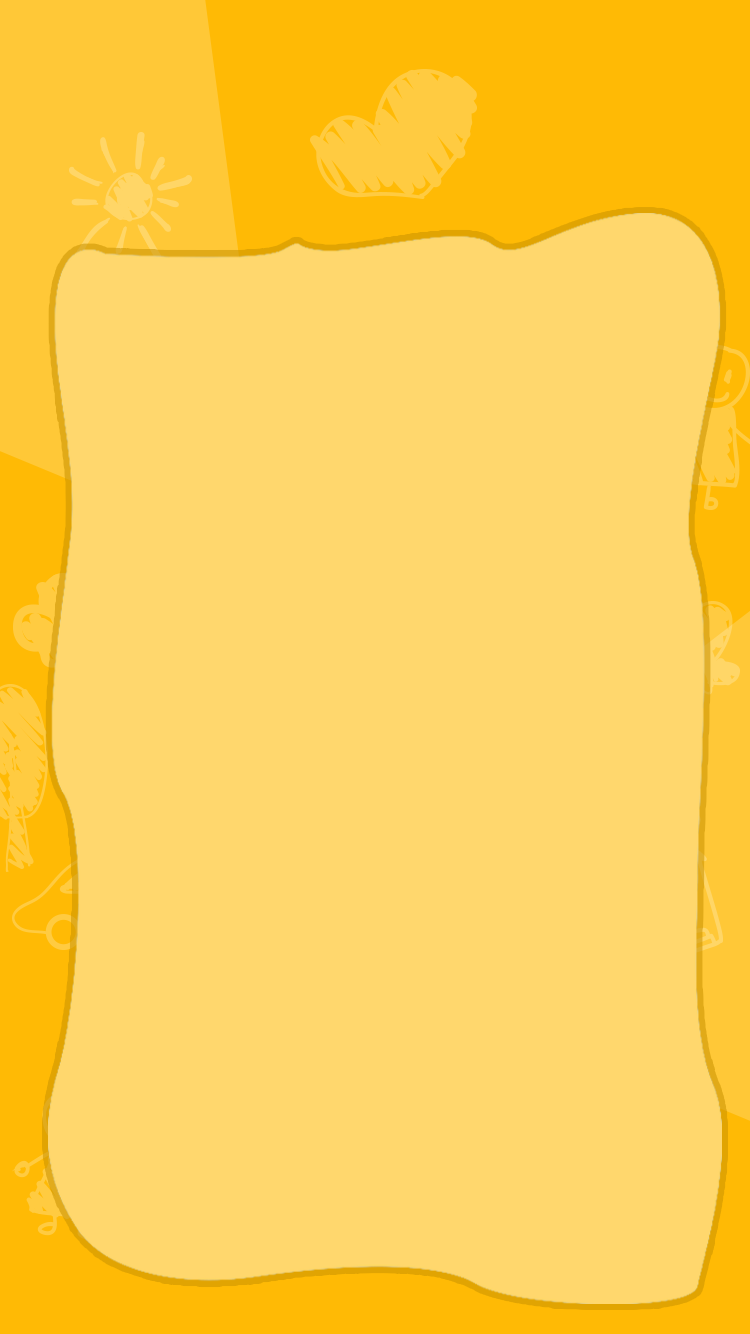
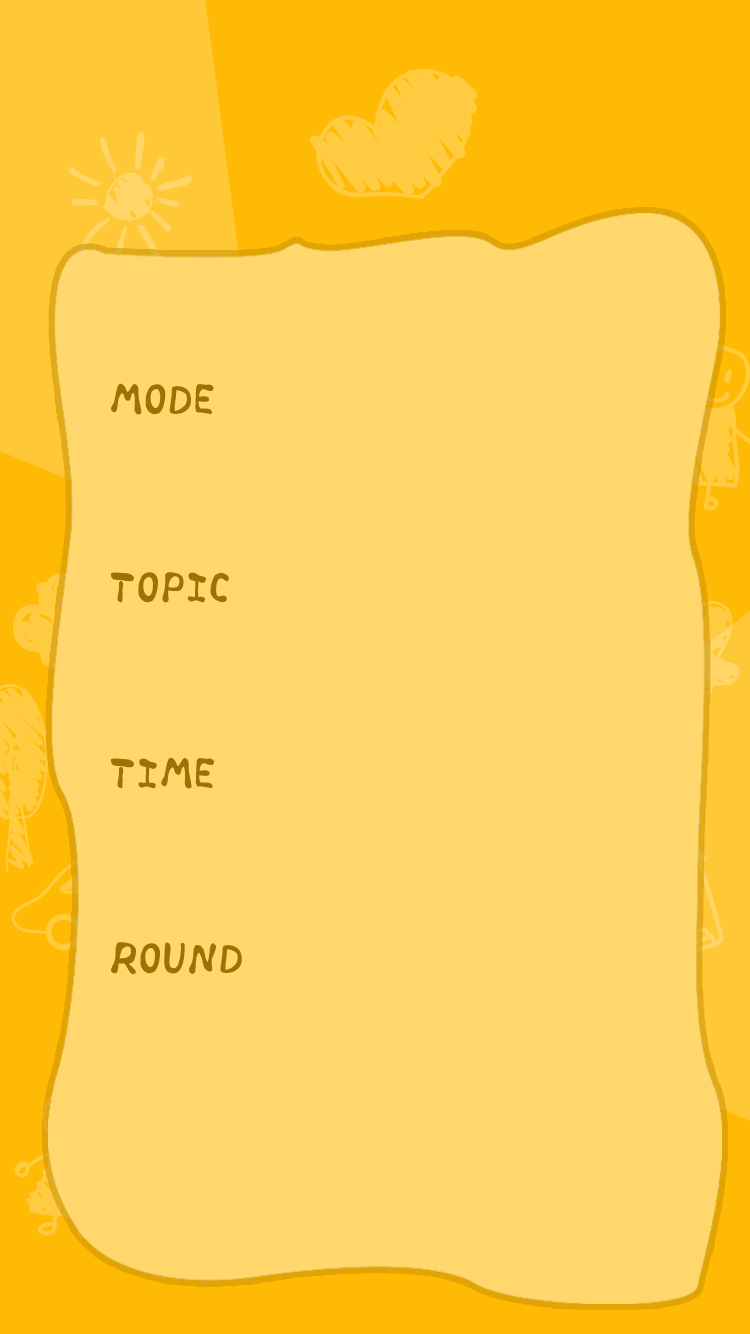
Added game rule and mode intro panel

diff --git a/BaileyDemo/core/src/com/mygdx/game/modeIntroScreen.java b/BaileyDemo/core/src/com/mygdx/game/modeIntroScreen.java
@@ -32,17 +32,12 @@ import com.badlogic.gdx.graphics.g2d.TextureRegion;
 import com.badlogic.gdx.scenes.scene2d.ui.Image;
 import com.badlogic.gdx.Preferences;
 
-public class SettingMenu extends ScreenAdapter{
-
+public class modeIntroScreen extends ScreenAdapter{
     private MultipleScenes game;
     private Stage stage;
-    private Skin skin;
-
-
     private Texture tex;
     private Image image;
     private TextureRegion region;
-
     private TextureRegionDrawable up;
     private TextureRegionDrawable down;
     private TextureRegion buttonUp;
@@ -50,39 +45,14 @@ public class SettingMenu extends ScreenAdapter{
     private Texture tex2;
     private ImageButton button;
 
-    private Slider slider;
-
-    public SettingMenu(MultipleScenes game) {
+    public modeIntroScreen(MultipleScenes game) {
         this.game = game;
     }
 
     @Override
     public void show(){
-
         stage = new Stage(new ScreenViewport());
-        skin = new Skin(Gdx.files.internal("plain-james/skin/plain-james-ui.json"));
-
-
-        slider = new Slider(0, 100, 1, false, skin);
-        slider.setValue(1);
-        Container<Slider> sliderContainer = new Container<Slider>(slider);
-        sliderContainer.setTransform(true);
-
-        sliderContainer.setOrigin(slider.getWidth()/2,slider.getHeight()/2);
-        sliderContainer.setSize(slider.getWidth(),slider.getHeight());
-        sliderContainer.setScale(2);
-
-//        slider.setSize(30, 100);
-//        slider.setPosition(100, 100);
-//        slider.addListener(new ChangeListener() {
-//            @Override
-//            public void changed(ChangeEvent event, Actor actor) {
-//
-//            }
-//        });
-        stage.addActor(slider);
-
-        tex = new Texture(Gdx.files.internal("image/setting.png"));
+        tex = new Texture(Gdx.files.internal("image/modeIntro.png"));
         region = new TextureRegion(tex,0,0,750,1334);
         image = new Image(region);
         image.setPosition(0,0);
@@ -102,32 +72,11 @@ public class SettingMenu extends ScreenAdapter{
         button.addListener(new ClickListener() {
             @Override
             public void clicked(InputEvent event, float x, float y) {
-                //back to last activity
                 SoundManager.button.play();
-                //set back to HomePage for test
-                game.setScreen(new HomeScreen(game));
+                game.setScreen(new CreateLobby(game));
                 SoundManager.background.dispose();
             }
         });
-
-        tex2 = new Texture(Gdx.files.internal("button/infoButton.png"));
-        TextureRegion[][] temp_3 = TextureRegion.split(tex2,50,50);
-        buttonUp = temp_3[0][0];
-        buttonDown = temp_3[0][1];
-        up = new TextureRegionDrawable(buttonUp);
-        down = new TextureRegionDrawable(buttonDown);
-        button = new ImageButton(up,down);
-        button.setPosition(Gdx.graphics.getWidth() / 2 + 100,Gdx.graphics.getHeight()/2 + 195);
-        button.setSize(30,30);
-        stage.addActor(button);
-        button.addListener(new ClickListener() {
-            @Override
-            public void clicked(InputEvent event, float x, float y) {
-                SoundManager.button.play();
-                game.setScreen(new gameRuleScreen(game));
-            }
-        });
-
         Gdx.input.setInputProcessor(stage);
     }
 

diff --git a/BaileyDemo/core/src/com/mygdx/game/gameRuleScreen.java b/BaileyDemo/core/src/com/mygdx/game/gameRuleScreen.java
@@ -32,17 +32,12 @@ import com.badlogic.gdx.graphics.g2d.TextureRegion;
 import com.badlogic.gdx.scenes.scene2d.ui.Image;
 import com.badlogic.gdx.Preferences;
 
-public class SettingMenu extends ScreenAdapter{
-
+public class gameRuleScreen extends ScreenAdapter{
     private MultipleScenes game;
     private Stage stage;
-    private Skin skin;
-
-
     private Texture tex;
     private Image image;
     private TextureRegion region;
-
     private TextureRegionDrawable up;
     private TextureRegionDrawable down;
     private TextureRegion buttonUp;
@@ -50,39 +45,14 @@ public class SettingMenu extends ScreenAdapter{
     private Texture tex2;
     private ImageButton button;
 
-    private Slider slider;
-
-    public SettingMenu(MultipleScenes game) {
+    public gameRuleScreen(MultipleScenes game) {
         this.game = game;
     }
 
     @Override
     public void show(){
-
         stage = new Stage(new ScreenViewport());
-        skin = new Skin(Gdx.files.internal("plain-james/skin/plain-james-ui.json"));
-
-
-        slider = new Slider(0, 100, 1, false, skin);
-        slider.setValue(1);
-        Container<Slider> sliderContainer = new Container<Slider>(slider);
-        sliderContainer.setTransform(true);
-
-        sliderContainer.setOrigin(slider.getWidth()/2,slider.getHeight()/2);
-        sliderContainer.setSize(slider.getWidth(),slider.getHeight());
-        sliderContainer.setScale(2);
-
-//        slider.setSize(30, 100);
-//        slider.setPosition(100, 100);
-//        slider.addListener(new ChangeListener() {
-//            @Override
-//            public void changed(ChangeEvent event, Actor actor) {
-//
-//            }
-//        });
-        stage.addActor(slider);
-
-        tex = new Texture(Gdx.files.internal("image/setting.png"));
+        tex = new Texture(Gdx.files.internal("image/Rules.png"));
         region = new TextureRegion(tex,0,0,750,1334);
         image = new Image(region);
         image.setPosition(0,0);
@@ -102,32 +72,11 @@ public class SettingMenu extends ScreenAdapter{
         button.addListener(new ClickListener() {
             @Override
             public void clicked(InputEvent event, float x, float y) {
-                //back to last activity
                 SoundManager.button.play();
-                //set back to HomePage for test
-                game.setScreen(new HomeScreen(game));
+                game.setScreen(new SettingMenu(game));
                 SoundManager.background.dispose();
             }
         });
-
-        tex2 = new Texture(Gdx.files.internal("button/infoButton.png"));
-        TextureRegion[][] temp_3 = TextureRegion.split(tex2,50,50);
-        buttonUp = temp_3[0][0];
-        buttonDown = temp_3[0][1];
-        up = new TextureRegionDrawable(buttonUp);
-        down = new TextureRegionDrawable(buttonDown);
-        button = new ImageButton(up,down);
-        button.setPosition(Gdx.graphics.getWidth() / 2 + 100,Gdx.graphics.getHeight()/2 + 195);
-        button.setSize(30,30);
-        stage.addActor(button);
-        button.addListener(new ClickListener() {
-            @Override
-            public void clicked(InputEvent event, float x, float y) {
-                SoundManager.button.play();
-                game.setScreen(new gameRuleScreen(game));
-            }
-        });
-
         Gdx.input.setInputProcessor(stage);
     }
 

diff --git a/BaileyDemo/core/src/com/mygdx/game/CreateLobby.java b/BaileyDemo/core/src/com/mygdx/game/CreateLobby.java
@@ -30,6 +30,9 @@ public class CreateLobby extends ScreenAdapter {
     private Skin mySkin;
     private BitmapFont font;
     private SelectBox<String> lobbyType;
+    private SelectBox<String> time;
+    private SelectBox<String> round;
+    private SelectBox<String> topicType;
     private boolean moveToLobby = false;
     private ShapeRenderer shapeRenderer;
 
@@ -149,13 +152,52 @@ public class CreateLobby extends ScreenAdapter {
 //        });
 //        stage.addActor(createLobby);
 
+        tex2 = new Texture(Gdx.files.internal("button/infoButton.png"));
+        TextureRegion[][] temp_3 = TextureRegion.split(tex2,50,50);
+        buttonUp = temp_3[0][0];
+        buttonDown = temp_3[0][1];
+        up = new TextureRegionDrawable(buttonUp);
+        down = new TextureRegionDrawable(buttonDown);
+        button = new ImageButton(up,down);
+        button.setPosition(Gdx.graphics.getWidth() / 2 + 100,Gdx.graphics.getHeight()/2 + 195);
+        button.setSize(30,30);
+        stage.addActor(button);
+        button.addListener(new ClickListener() {
+            @Override
+            public void clicked(InputEvent event, float x, float y) {
+                SoundManager.button.play();
+                game.setScreen(new modeIntroScreen(game));
+            }
+        });
+
         lobbyType = new SelectBox<String>(mySkin);
         lobbyType.setItems("Regular", "One Line", "Test");
-        lobbyType.setName("Lobby Type:");
-        lobbyType.setBounds((Gdx.graphics.getWidth() / 2 - 50), Gdx.graphics.getHeight() / 2, 200, 60);
+        //lobbyType.setName("Lobby Type:");
+        lobbyType.setBounds((Gdx.graphics.getWidth() / 2 - 40), Gdx.graphics.getHeight() / 2 + 180, 100, 60);
         lobbyType.setColor(0.0f, 0.0f, 0.0f, 1.0f);
         lobbyType.setSelected("5");
         stage.addActor(lobbyType);
+
+        topicType = new SelectBox<String>(mySkin);
+        topicType.setItems("Test 1", "Test 2", "Test 3");
+        topicType.setBounds((Gdx.graphics.getWidth() / 2 - 40), Gdx.graphics.getHeight() / 2 + 70, 100, 60);
+        topicType.setColor(0.0f, 0.0f, 0.0f, 1.0f);
+        topicType.setSelected("5");
+        stage.addActor(topicType);
+
+        time = new SelectBox<String>(mySkin);
+        time.setItems("10 sec", "15 sec", "20 sec", "30 sec", "1 min");
+        time.setBounds((Gdx.graphics.getWidth() / 2 - 40), Gdx.graphics.getHeight() / 2 - 35, 100, 60);
+        time.setColor(0.0f, 0.0f, 0.0f, 1.0f);
+        time.setSelected("5");
+        stage.addActor(time);
+
+        round = new SelectBox<String>(mySkin);
+        round.setItems("2", "4", "6", "8", "10");
+        round.setBounds((Gdx.graphics.getWidth() / 2 - 40), Gdx.graphics.getHeight() / 2 - 140, 100, 60);
+        round.setColor(0.0f, 0.0f, 0.0f, 1.0f);
+        round.setSelected("5");
+        stage.addActor(round);
 
         Gdx.input.setInputProcessor(stage);
     }

diff --git a/BaileyDemo/core/src/com/mygdx/game/HomeScreen.java b/BaileyDemo/core/src/com/mygdx/game/HomeScreen.java
@@ -203,24 +203,24 @@ public class HomeScreen extends ScreenAdapter {
         });
 
         //Back Icon
-        tex2 = new Texture(Gdx.files.internal("button/BackButton.png"));
-        TextureRegion[][] temp_0 = TextureRegion.split(tex2,210,60);
-        buttonUp = temp_0[0][0];
-        buttonDown = temp_0[0][1];
-        up = new TextureRegionDrawable(buttonUp);
-        down = new TextureRegionDrawable(buttonDown);
-        button = new ImageButton(up,down);
-        button.setPosition(Gdx.graphics.getWidth()/2 - 180,Gdx.graphics.getHeight() / 2 + 270);
-        button.setSize(105,30);
-        stage.addActor(button);
-        button.addListener(new ClickListener() {
-            @Override
-            public void clicked(InputEvent event, float x, float y) {
-                game.setScreen(new LoginScreen(game));
-                SoundManager.button.play();
-                SoundManager.background.dispose();
-            }
-        });
+//        tex2 = new Texture(Gdx.files.internal("button/BackButton.png"));
+//        TextureRegion[][] temp_0 = TextureRegion.split(tex2,210,60);
+//        buttonUp = temp_0[0][0];
+//        buttonDown = temp_0[0][1];
+//        up = new TextureRegionDrawable(buttonUp);
+//        down = new TextureRegionDrawable(buttonDown);
+//        button = new ImageButton(up,down);
+//        button.setPosition(Gdx.graphics.getWidth()/2 - 180,Gdx.graphics.getHeight() / 2 + 270);
+//        button.setSize(105,30);
+//        stage.addActor(button);
+//        button.addListener(new ClickListener() {
+//            @Override
+//            public void clicked(InputEvent event, float x, float y) {
+//                game.setScreen(new LoginScreen(game));
+//                SoundManager.button.play();
+//                SoundManager.background.dispose();
+//            }
+//        });
 
         //Quick Play Button
         tex2 = new Texture(Gdx.files.internal("button/QuickPlayButton.png"));

diff --git a/BaileyDemo/core/src/com/mygdx/game/LoginScreen.java b/BaileyDemo/core/src/com/mygdx/game/LoginScreen.java
@@ -165,23 +165,23 @@ public class LoginScreen extends ScreenAdapter {
         });
 
         //Setting Icon
-        tex2 = new Texture(Gdx.files.internal("button/SettingButton.png"));
-        TextureRegion[][] temp = TextureRegion.split(tex2,85,85);
-        buttonUp = temp[0][0];
-        buttonDown = temp[0][1];
-        up = new TextureRegionDrawable(buttonUp);
-        down = new TextureRegionDrawable(buttonDown);
-        button = new ImageButton(up,down);
-        button.setPosition(Gdx.graphics.getWidth() / 2 + 100,Gdx.graphics.getHeight() / 2 + 250);
-        button.setSize(30,30);
-        stage.addActor(button);
-        button.addListener(new ClickListener() {
-            @Override
-            public void clicked(InputEvent event, float x, float y) {
-                game.setScreen(new SettingMenu(game));
-                SoundManager.button.play();
-            }
-        });
+//        tex2 = new Texture(Gdx.files.internal("button/SettingButton.png"));
+//        TextureRegion[][] temp = TextureRegion.split(tex2,85,85);
+//        buttonUp = temp[0][0];
+//        buttonDown = temp[0][1];
+//        up = new TextureRegionDrawable(buttonUp);
+//        down = new TextureRegionDrawable(buttonDown);
+//        button = new ImageButton(up,down);
+//        button.setPosition(Gdx.graphics.getWidth() / 2 + 100,Gdx.graphics.getHeight() / 2 + 250);
+//        button.setSize(30,30);
+//        stage.addActor(button);
+//        button.addListener(new ClickListener() {
+//            @Override
+//            public void clicked(InputEvent event, float x, float y) {
+//                game.setScreen(new SettingMenu(game));
+//                SoundManager.button.play();
+//            }
+//        });
 
         stage.addActor(textField);
         Gdx.input.setInputProcessor(stage);
